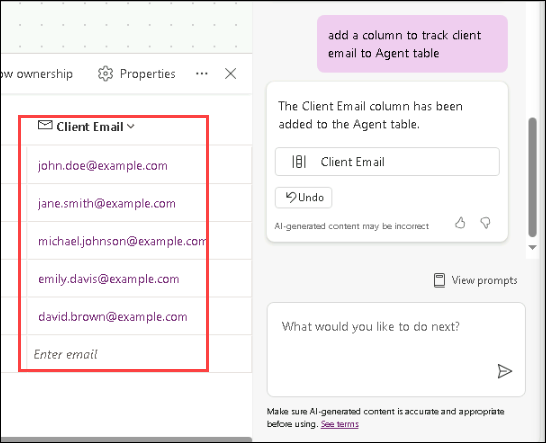
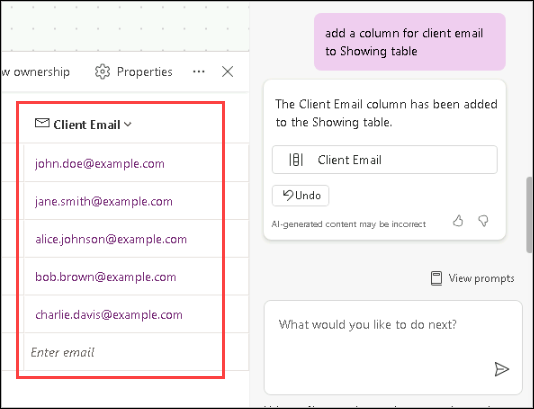
Lab 2 complete updates

diff --git a/lab2/README.md b/lab2/README.md
@@ -181,7 +181,7 @@ In this task, you’ll create an application leveraging Power Apps Copilot.  Thi
 
 1. In the text box, at the bottom of the **Copilot** pane to the right of the screen, type:
 
-    **`add a column to track client full name in Agent table`** **(1)**
+    **`add a column for client full name in Showing table`** **(1)**
 
     Then, select the **Send** button.
 
@@ -191,7 +191,7 @@ In this task, you’ll create an application leveraging Power Apps Copilot.  Thi
 
 1. Now type the following into the chat:
 
-    **`add a column to track client email to Agent table`**
+    **`add a column for client email to Showing table`**
 
     Then, select the **Send** button.
 
@@ -206,7 +206,7 @@ In this task, you’ll create an application leveraging Power Apps Copilot.  Thi
 
 1. Now, let’s add a **Status** column within the  Showing table. In the text box within the **Copilot** pane, type and send:
 
-    `add a status column to the showing table`
+    `add a column for Status to the Showing table`
 
     It may take a minute to load. Once it does, you'll see that the **Status** column has been updated to include the option for **Completed**.
 
@@ -232,7 +232,7 @@ In this task, you’ll create an application leveraging Power Apps Copilot.  Thi
 
     Notice that five more rows of data are added for each of the existing columns within the table.
 
-    ![The table is displayed with the new rows.](./assets/copilot-table-new-rows.png)
+    ![](../Media/L2T39.png)
 
     Now looking through your table, you should have a number of columns. However, for the sake of following the rest of the modules in this learning path - let's try and remove some of the columns that we won't be using.
 
@@ -249,9 +249,9 @@ In this task, you’ll create an application leveraging Power Apps Copilot.  Thi
 
     Use what you've just learnt with the **Copilot Chat** window to adjust your table to match the above. Don't forget to reference the Suggestions section for help in case you need to remove a column, change a column name, or add a column.
 
-1. Let's create the app now. In the bottom right corner of the screen, select the **Create app** button.
+1. Let's create the app now. In the top right corner of the screen, select the **Save and open app** button.
 
-    ![The create app button is highlighted.](./assets/copilot-create-app.png)
+    ![](../Media/L2T40.png)
 
 1. When the app first loads, a dialog may appear saying: **Welcome to Power Apps Studio**. If so, select the **Skip** button.
 
@@ -261,11 +261,9 @@ In this task, you’ll create an application leveraging Power Apps Copilot.  Thi
 
 1. To the left of the screen, select the **Data** icon from the navigation bar. Notice that a **Dataverse** table has been created by the Copilot and is now in the **Environments** section.
 
-    ![The data icon is highlighted.](./assets/copilot-data.png)
+    ![](../Media/L2T41.png)
 
-    > **Note**
-    >
-    > Copilot is currently only supported for Dataverse. You cannot use any other data access point at this time.
+    > **Note:** Copilot is currently only supported for Dataverse. You cannot use any other data access point at this time.
 
     Let's try editing the table now that the app has been created.
 
@@ -273,17 +271,17 @@ In this task, you’ll create an application leveraging Power Apps Copilot.  Thi
 
 1. From the menu, select **Edit data**.
 
-    ![The edit data option is highlighted.](./assets/copilot-edit-data.png)
+    ![](../Media/L2T42.png)
 
 1. The Edit Table dialog appears. Here's where you can come and add your own columns to the table, or modify existing columns.
 
-    ![The edit table dialog is displayed.](./assets/edit-table.png)
+    ![The edit table dialog is displayed.](../Media/edit-table.png)
 
 1. Select the **ID** column header from the table.
 
 1. From the drop-down, select the **Edit column** option.
 
-    ![The edit column option is highlighted.](./assets/copilot-edit-column.png)
+    ![The edit column option is highlighted.](../Media/copilot-edit-column.png)
 
     In this example, we don't want the Data Type of the column to be a Single line of text. Let's change that.
 
@@ -291,13 +289,13 @@ In this task, you’ll create an application leveraging Power Apps Copilot.  Thi
 
 1. Select **Save**.
 
-    ![The save button is highlighted.](./assets/save-column.png)
+    ![The save button is highlighted.](../Media/save-column.png)
 
 1. Select the **Close** button in the bottom right corner of the **Edit table** dialog.
 
 1. Notice that the table now says **Refreshed** within the Data pane.
 
-    ![The refreshed table is displayed.](./assets/copilot-refreshed-table.png)
+    ![The refreshed table is displayed.](../Media/L2T43.png)
 
 1. We have to modify the gallery in the application so that it displays the relevant data. Select the **Tree view** icon to return to the Tree view.
 
@@ -313,39 +311,37 @@ In this task, you’ll create an application leveraging Power Apps Copilot.  Thi
 
 1. Select the **Body** and set the **Text** value to the following formula:
 
-    `ThisItem.Status`
+    `ThisItem.'Status (crcaa_status)'`
 
     A single record in the gallery should now look like this:
 
-    ![The gallery is displayed.](./assets/showings-gallery.png)
+    ![](../Media/L2T44.png)
 
 1. On the app main screen, select the **Form** control.
 
-    ![The form control is highlighted.](./assets/copilot-form-control.png)
+    ![](../Media/L2T45.png)
 
-1. On the **Properties** pane on the right, under the **Fields** property, select **Edit fields**.
+1. On the **Top** pane on the right, select **Edit fields** **(1)** drop down menu.
 
-    ![The edit fields option is highlighted.](./assets/copilot-edit-fields.png)
+1. Now within the **Fields** pane, expand the **ID** **(2)** field.
 
-1. Now within the **Fields** pane, expand the **ID** field.
+1. From the **Control type** drop-down, change the type to **View text** **(3)**.
 
-1. From the **Control type** drop-down, change the type to **View text**.
+    ![](../Media/L2T46.png)
 
-    ![The view text option is highlighted.](./assets/copilot-view-text.png)
+    > **Note:** Because we previously changed the ID field to Autonumber, we don’t want the users putting in their own number; Dataverse is going to autonumber it for us.
 
-    Because we previously changed the ID field to Autonumber, we don’t want the users putting in their own number; Dataverse is going to autonumber it for us.
-
-1. Within the **Fields** pane, use the **X** in the top right corner to close out the pane.
+1. Now click elsewhere to come back to the Tree view.
 
 1. Now, let's make a new request for a property showing within the app.
 
 1. From the top of the screen, select the Play button.
 
-    ![The play button is highlighted.](./assets/copilot-play.png)
+    ![](../Media/L2T47.png)
 
 1. Within the pane to the left of the app, select the **+New** button.
 
-    ![The new button is highlighted.](./assets/copilot-new.png)
+    ![The new button is highlighted.](../Media/copilot-new.png)
 
 1. Although you could modify the form to autofill the fields for you, we're going to do so ourselves to show that the app works.
 
@@ -356,6 +352,8 @@ In this task, you’ll create an application leveraging Power Apps Copilot.  Thi
     - Client Email: < Your email >
     - Date: < Any future date >
     - Time: < Any future time >
+    - Showing: Active
+    - Property: 123 Main St
     - Status: `Pending`
     - Address: `210 Pine Road, Portland, OR 97204`
 
@@ -367,7 +365,7 @@ In this task, you’ll create an application leveraging Power Apps Copilot.  Thi
 
 1. Then select the checkmark in the top right corner of the screen.
 
-    ![The checkmark is highlighted.](./assets/copilot-checkmark.png)
+    ![The checkmark is highlighted.](../Media/copilot-checkmark.png)
 
 1. Now, select the **X** in the top right corner to close out of the app.
 
@@ -377,22 +375,22 @@ In this task, you’ll create an application leveraging Power Apps Copilot.  Thi
 
 1. From the top of your screen, select the **Save** button to save the new app you have created.
 
-    ![The save button is highlighted.](./assets/copilot-save.png)
+    ![](../Media/L2T48.png)
 
     If asked, save app name as **Real Estate Showings**.
 
 1. Select the publish icon to publish the app
 
-    ![Publish app](./assets/publish-app.png)
+    ![](../Media/L2T49.png)
 
 1. Generate a description using AI by selecting the **Create description using AI** button
 
-    ![Generate AI Description](./assets/create-ai-description-2.png)
+    ![](../Media/L2T50.png)
 
 1. Check if the description is correct. If not, correct it and select the **Publish this version** button. If yes, select the **Publish this version** button.
+    > **Note:** The description may vary as we are generating using Copilot.
 
-    ![Check and publish this version of the app](./assets/check-publish-2.png)
-
+    ![](../Media/L2T51.png)
 1. Exit the app to return to the Power Apps home page.
 
 Congratulations! You have now created a Power Apps Canvas App with Copilot!
@@ -405,57 +403,57 @@ In this task, you will create a solution for the components we just created via 
 
 1. From the Power Apps home screen, select Solutions in the left navigation.
 
-    ![Screenshot of the Solutions section on the homepage](./assets/Solutions.png)
+    ![](../Media/L2T52.png)
 
 1. Select **+ New solution** at the top of the screen.
 
-    ![Screenshot of the Solutions section on the homepage](./assets/Solutions-New-Solution.png)
+    ![](../Media/L2T53.png)
 
 1. Add the solution name `MPPC 23` and select **+ New publisher**
 
-    ![Screenshot of the Solutions section on the homepage](./assets/Solutions-New-Publisher.png)
+    ![](../Media/L2T54.png)
 
-1. Add the `Display name`, `Name` and `Prefix`. Select **Save** when you're done.
+1. Add the details below
 
-    ![Screenshot of the Solutions section on the homepage](./assets/Solutions-New-Publisher-Details.png)
+    - Display name: **Microsoft Power Platrorm Conference** **(1)**,
+    - Name: **MicrosoftPowerPlatrormConference** **(2)**, and 
+    - Prefix: **mppc** **(3)**. 
+    - Select **Save** **(4)** when you're done.
 
-1. Select the newly created publisher from the `Publisher` dropdown.
+    ![](../Media/L2T55.png)
 
-    ![Screenshot of the Solutions section on the homepage](./assets/Solutions-New-Publisher-Select.png)
+1. The newly created publisher will be automatically selected in the **Publisher** dropdown. Leave other settins as default and Select the **Create** button at the bottom.
 
-1. Select the **Create** button at the bottom.
+    ![](../Media/L2T56.png)
 
-    ![Screenshot of the Solutions section on the homepage](./assets/Solutions-New-Solution-Create.png)
+    > **Notes:** This concludes task 3, you have created the `MPPC 23` solution.
 
-This concludes task 3, you have created the `MPPC 23` solution.
-
-![Screenshot of the Solutions section on the homepage](./assets/Solutions-New-Solution-Finished.png)
 
 ## ☑ Task 4: Add the resources created by Power Apps Copilot to a solution
 
 In this task, you will add the components we just created via Copilot to the `MPPC 23` solution!
 
-1. Select **Add existing > App > Canvas app**
+1. Select **Add existing** **(1)** > **App** **(2)** > **Canvas app** **(3)**
 
-    ![Screenshot of the Solutions section on the homepage](./assets/Solutions-Add-Existing-Canvas-Apps.png)
+    ![](../Media/L2T57.png)
 
-1. In the next screen select **All apps** by selecting the checkbox at arrow 1 and select the **Add** button at the bottom.
+1. In the next screen select **All apps** **(1)** by selecting the checkbox at arrow 1 and select the **Add** **(2)** button at the bottom.
 
-    ![Screenshot of the Solutions section on the homepage](./assets/Solutions-Add-Existing-Canvas-Apps-Selection.png)
+    ![](../Media/L2T58.png)
 
     This will add the canvas apps to the solution we just created. Next, we will add the Dataverse tables to the same solution.
 
-1. Select **Add existing > Table**
+1. Select **Add existing** **(1)** > **Table** **(2)**.
 
-    ![Screenshot of the Solutions section on the homepage](./assets/Solutions-Add-Existing-Tables.png)
+    ![](../Media/L2T59.png)
 
-1. Search for `real` at the top right, this will filter the tables to only those that contain `Real` and will show only our tables, select the checkbox so that all tables are selected and select the **Next** button at the bottom.
+1. Search for **real** **(1)** at the top right, this will filter the tables to only those that contain `Real` and will show only our tables, **select the checkbox** **(2)** so that all tables are selected and select the **Next** **(3)** button at the bottom.
 
-    ![Screenshot of the Solutions section on the homepage](./assets/Solutions-Add-Tables-Selection.png)
+    ![](../Media/L2T60.png)
 
-1. Select **Include all objects** at both tables and select the add button at the bottom.
+1. Select **Include all objects** **(1)** at both tables and select the **Add** **(2)** button at the bottom.
 
-    ![Screenshot of the Solutions section on the homepage](./assets/Solutions-Add-Tables-Selection-Objects.png)
+    ![](../Media/L2T61.png)
 
 ## Next lab
 
